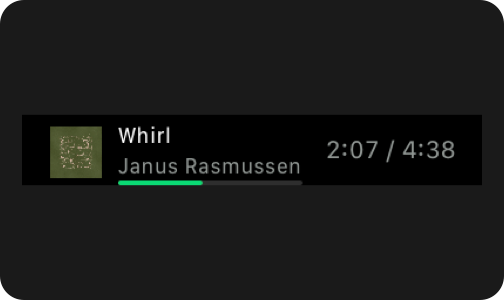
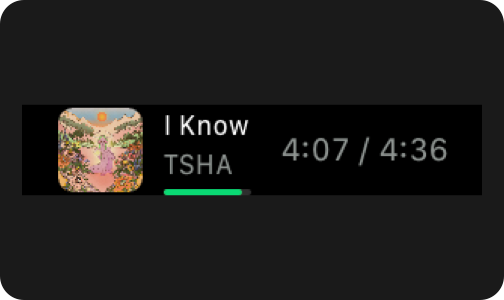
Artwork matches the button height (30pt), rounded corners

Changed region(s): [[0.0298, 0.33, 0.9524, 0.66]]

diff --git a/Sources/SpotifyPlayingItemView.swift b/Sources/SpotifyPlayingItemView.swift
@@ -42,6 +42,32 @@ final class SpotifyPlayingItemView: PKDetailView {
 
 	let progressBar = ProgressBarView(frame: .zero)
 
+	/// Artwork matches the height of the Touch Bar buttons (PKDetailView uses 24)
+	private static let artworkSize: CGFloat = 30
+	private var containerWidthConstraint: NSLayoutConstraint?
+
+	/// Replaces PKDetailView's layout, which fixes the icon at 24pt and insets the content vertically.
+	override func updateConstraint() {
+		guard let container = contentContainer else {
+			return
+		}
+		if containerWidthConstraint == nil {
+			container.edgesToSuperview()
+			imageView.width(SpotifyPlayingItemView.artworkSize)
+			imageView.height(SpotifyPlayingItemView.artworkSize)
+			imageView.imageScaling = .scaleProportionallyUpOrDown
+			imageView.wantsLayer = true
+			imageView.layer?.cornerRadius = 5
+			imageView.layer?.masksToBounds = true
+			// Keep the labels clear of the progress bar
+			labelsContainer.edgeInsets = NSEdgeInsets(top: 2, left: 0, bottom: 4, right: 0)
+			containerWidthConstraint = container.width(0)
+		}
+		// contentWidth assumes a 24pt icon
+		let width = contentWidth + SpotifyPlayingItemView.artworkSize - 24
+		containerWidthConstraint?.constant = maxWidth > 0 ? min(maxWidth, width) : width
+	}
+
 	override func didLoad() {
 		canScrollTitle = true
 		canScrollSubtitle = true
